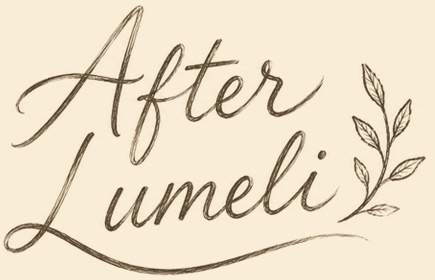
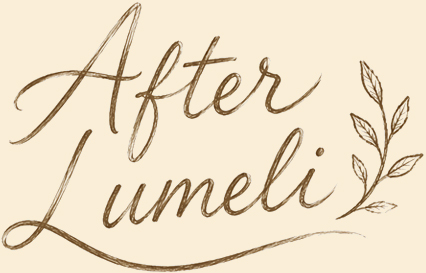
fix: before/after labels tuck inside the artwork's blank corner, scenes center cleanly

diff --git a/styles.css b/styles.css
@@ -260,23 +260,18 @@ section { padding: 96px 0; }
   margin-bottom: 96px;
 }
 .ba-block:last-child { margin-bottom: 0; }
-/* the scene = art + overhanging label; shifted right by half the label's
-   overhang so the composite reads centered on the page */
+/* the script label lives INSIDE the artwork's empty top-left corner,
+   as drawn in the original design — the scene centers as one piece */
 .ba-scene {
   position: relative;
   width: min(760px, 100%);
-  transform: translateX(55px);
 }
 .ba-art { display: block; width: 100%; height: auto; }
 .ba-label {
-  position: absolute; top: -8px; left: -115px;
-  width: clamp(160px, 18vw, 260px); height: auto;
+  position: absolute; top: 3.5%; left: 3%;
+  width: 26%; height: auto; /* scales with the scene, like part of the drawing */
   z-index: 1;
   transition-delay: 0.35s; /* the script label breathes in after the scene */
-}
-@media (max-width: 860px) {
-  .ba-scene { transform: none; }
-  .ba-label { position: static; margin: 0 auto 18px; display: block; }
 }
 
 /* ── Showcase: intro copy left, Signals mockup right ── */
